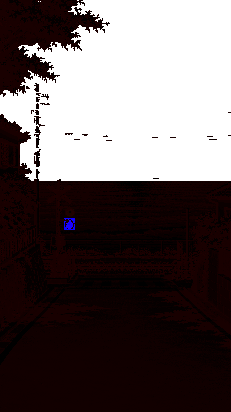
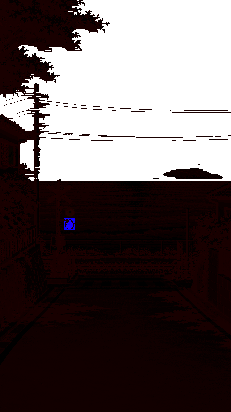
鎌倉高校前の全差分（時間帯・天気・季節）を追加（v0.5.0）
Codex の絵：空（朝・夕暮れ・夜・曇り・冬の富士山）と雪の日の景色。
コード：季節の色の差し替え（葉・あじさい）、夜の窓と灯台、雨の濡れた道、秋の落ち葉、季節ごとのカモメの数。
江の島と電線を景色の層に移し、空を差し替えても消えないようにした。
試し見とデバッグの到着で季節を選べるようにした。

diff --git a/app/js/scenes/kamakura.js b/app/js/scenes/kamakura.js
@@ -1,7 +1,9 @@
-// 鎌倉高校前の踏切（昼）：Codex で作った元の絵を tools/make_kamakura.py で層に分けたもの
-// 絵は昼の1枚だけ。朝・夕暮れ・夜と天気は、パレットの色づけだけで表す（形は変えない）
-// 動き：海のきらめき、ときどき鳴る踏切のランプ（上下が交互に光る）、ランプが鳴るあいだに通る電車、空を横切るカモメ
-// 電車とカモメの絵も Codex で作ったもの（tools/make_kamakura.py でカードの粗さと色にそろえた）。動かすのはコード
+// 鎌倉高校前の踏切：Codex で作った元の絵を tools/make_kamakura.py・make_kamakura_skies.py で層に分けたもの
+// 差分の分担（2026-11-25）
+//   Codex の絵：昼の景色、空（朝・夕暮れ・夜・曇り・冬の富士山）、雪の日の景色、電車、カモメ
+//   コード    ：時間帯・天気の色づけ、季節の色の差し替え（葉・あじさい）、夜の窓と灯台の明かり、
+//               海のきらめき、踏切のランプ、電車とカモメの動き、雨・雪・落ち葉の粒、濡れた道の光
+// 絵はコードで描き足さない（形が変わるものは Codex の絵を使う）
 import { loadTextures, palTex, setPal, makeLayer, makeChara, makeParticles } from '../card.js';
 const THREE = window.THREE;
 
@@ -9,46 +11,62 @@ const THREE = window.THREE;
 const TIME = {
   morning: { mul: [1.04, 1.0, .96], add: [10, 8, 4], desat: 0 },
   day: { mul: [1, 1, 1], add: [0, 0, 0], desat: 0 },
-  evening: { mul: [1.1, .8, .66], add: [18, 2, 8], desat: .1 },
+  evening: { mul: [1.05, .88, .8], add: [10, 2, 8], desat: .08 },
   night: { mul: [.3, .38, .62], add: [0, 2, 14], desat: .35 },
 };
 const WEATHER = {
   clear: { mul: [1, 1, 1], add: [0, 0, 0], desat: 0 },
   cloudy: { mul: [.9, .9, .93], add: [0, 0, 0], desat: .35 },
-  rain: { mul: [.78, .8, .88], add: [0, 0, 4], desat: .45 },
-  snow: { mul: [.96, .98, 1.02], add: [14, 16, 22], desat: .35 },
+  rain: { mul: [.76, .78, .86], add: [0, 0, 4], desat: .45 },
+  snow: { mul: [.94, .96, 1.0], add: [6, 8, 12], desat: .25 },
 };
+const tint = ([r, g, b], t) => { const l = r * .3 + g * .59 + b * .11; return [(r + (l - r) * t.desat) * t.mul[0] + t.add[0], (g + (l - g) * t.desat) * t.mul[1] + t.add[1], (b + (l - b) * t.desat) * t.mul[2] + t.add[2]]; };
+const both = (a, b) => ({ mul: a.mul.map((v, i) => v * b.mul[i]), add: a.add.map((v, i) => v + b.add[i]), desat: Math.min(1, a.desat + b.desat) });
+const mix = (c, d, k) => c.map((v, i) => v + (d[i] - v) * k);
+
+// 色の種類（32色のパレットから、葉・黄緑の葉・あじさいを見分ける）
+function kindOf([r, g, b]) {
+  const mx = Math.max(r, g, b) / 255, mn = Math.min(r, g, b) / 255, l = (mx + mn) / 2, d = mx - mn;
+  const s = d === 0 ? 0 : d / (1 - Math.abs(2 * l - 1)); let h = 0;
+  if (d) { const R = r / 255, G = g / 255, B = b / 255; h = mx === R ? ((G - B) / d) % 6 : mx === G ? (B - R) / d + 2 : (R - G) / d + 4; h = (h * 60 + 360) % 360; }
+  if (h >= 70 && h <= 170 && s > .25) return 'leaf';
+  if (h >= 45 && h < 70 && s > .3 && s < .65 && l < .55) return 'leafy';
+  if (h >= 270 && h <= 330 && s > .4) return 'flower';
+  return '';
+}
+// 季節の色の差し替え（夏が元の絵）
+function season(c, kind, s) {
+  if (!kind || s === 'summer') return c;
+  const l = (c[0] * .3 + c[1] * .59 + c[2] * .11) / 255;
+  if (s === 'spring') return kind === 'flower' ? mix(c, [112, 172, 84], .85) : mix(c, kind === 'leaf' ? [150, 206, 86] : [196, 206, 96], .3);
+  if (s === 'autumn') return kind === 'flower' ? mix(c, [140, 104, 78], .8) : kind === 'leafy' ? mix(c, [214, 158, 52], .65) : mix(c, l < .32 ? [122, 50, 36] : [224, 118, 44], .72);
+  if (s === 'winter') return kind === 'flower' ? mix(c, [98, 94, 76], .8) : kind === 'leafy' ? mix(c, [122, 120, 88], .5) : mix(c, [44, 80, 62], .45);
+  return c;
+}
 
 export async function build() {
   const base = 'assets/kamakura/';
   const D = await (await fetch(base + 'data.json')).json();
-  const tex = await loadTextures(base, ['sky', 'scene', 'front', 'chara', 'train', 'gulls']);
+  const skyNames = Object.values(D.skies || {});
+  const tex = await loadTextures(base, ['sky', 'scene', 'front', 'chara', 'train', 'gulls', ...skyNames, ...(D.snowScene ? ['scene_snow', 'front_snow'] : [])]);
   const W = D.W, H = D.H, k = W / 360;
   const scene = new THREE.Scene(); scene.userData = { W, H };
-
-  function grade(c, layer, st) {
-    const t = TIME[st.time] || TIME.day, w = WEATHER[st.weather] || WEATHER.clear;
-    let [r, g, b] = c;
-    if (layer === 'chara') { // キャラは背景ほど強く色を変えない
-      if (st.time === 'night') { r = r * .62 * .8; g = g * .62 * .9; b = b * .62 * 1.25 + 8; }
-      else if (st.time === 'evening') { r = r * 1.02 + 6; g *= .9; b *= .86; }
-      if (st.weather === 'rain' || st.weather === 'cloudy') { const l = r * .3 + g * .59 + b * .11; r = (r + (l - r) * .3) * .88; g = (g + (l - g) * .3) * .88; b = (b + (l - b) * .3) * .92; }
-      return [r, g, b];
-    }
-    const l = r * .3 + g * .59 + b * .11, ds = Math.min(1, t.desat + w.desat);
-    r = (r + (l - r) * ds) * t.mul[0] * w.mul[0] + t.add[0] + w.add[0];
-    g = (g + (l - g) * ds) * t.mul[1] * w.mul[1] + t.add[1] + w.add[1];
-    b = (b + (l - b) * ds) * t.mul[2] * w.mul[2] + t.add[2] + w.add[2];
-    return [r, g, b];
-  }
+  const kinds = { main: D.pal.main.map(kindOf), main_snow: (D.pal.main_snow || []).map(() => '') };
+  // 電車の窓（水色で明るい色）は、夕暮れ・夜に明かりをつける
+  const trainWin = D.pal.train.map(([r, g, b]) => b > r + 30 && r * .3 + g * .59 + b * .11 > 140);
 
   const sky = makeLayer(scene, 0, `void main(){ vec2 px=floor(vUv*uSize); px.y=uSize.y-1.-px.y; if(hidden(px)) discard; vec2 s=px-uOff; vec4 t=smp(s);
   gl_FragColor=vec4(pal(t.r),1.); }`);
+  // 印：1＝海のきらめき 2＝踏切のランプ 3＝家の窓 4＝江の島の灯台
+  // uNight：0＝昼 .5＝夕暮れ 1＝夜、uStretch：きらめきの強さ（晴れ1、曇り・雨・雪0）、uWet：濡れた道
   const SCENE_FRAG = `void main(){ vec2 px=floor(vUv*uSize); px.y=uSize.y-1.-px.y; if(hidden(px)) discard; vec2 s=px-uOff; vec4 t=smp(s); if(t.a<.5) discard;
   vec3 c=pal(t.r); float fl=floor(t.g*255.+.5), ph=hash(s);
-  if(fl>.5 && fl<1.5){ float q=mod(ph*14.+uF,14.); if(q<2.) c=mix(c,vec3(1.),uNight>.5?.3:.75); else if(q<4.) c*=.9; }
+  if(fl>.5 && fl<1.5 && uStretch>.5){ float q=mod(ph*14.+uF,14.); if(q<2.) c=mix(c,vec3(1.),uNight>.75?.3:.75); else if(q<4.) c*=.9; }
   if(fl>1.5 && fl<2.5){ float on=step(.5,uLamp), side=step(.5,t.b), blink=mod(floor(uF/6.),2.);
     if(on>.5 && abs(side-blink)<.5) c=mix(vec3(1.,.16,.08),vec3(1.,.82,.6),step(.62,lum(c))); else c*=.42; }
+  if(fl>2.5 && fl<3.5 && uNight>.25){ vec3 w=mix(vec3(1.,.74,.38),vec3(1.,.9,.62),step(.5,fract(ph*5.))); c=mix(c,w,uNight>.75?.92:.5); }
+  if(fl>3.5 && fl<4.5 && uNight>.25 && mod(uF,24.)<7.) c=vec3(1.,.95,.72);
+  if(uWet>.5 && s.y>${Math.round(H * .7)}. && lum(c)<.62 && mod(ph*26.+uF*.5,26.)<1.) c=mix(c,vec3(.78,.82,.92),.4);
   gl_FragColor=vec4(c,1.); }`;
   const scn = makeLayer(scene, 1, SCENE_FRAG);
   const front = makeLayer(scene, 3, SCENE_FRAG);   // 電車より手前にあるもの（壁・木・警報機の柱）
@@ -59,23 +77,54 @@ export async function build() {
   vec4 t=smp(s); if(t.a<.5) discard; gl_FragColor=vec4(pal(t.r),1.); }`, TW, TH);
   // カモメ：2コマを横に並べた絵。uOff.x がコマ番号、uWet が左右反転
   const [GW, GH] = D.sprites.gull;
-  const gulls = [0, 1, 2].map(i => makeLayer(scene, .5, `void main(){ vec2 px=floor(vUv*uSize); px.y=uSize.y-1.-px.y; vec2 s=px; if(uWet>.5) s.x=uSize.x-1.-s.x;
+  const gulls = [0, 1, 2].map(() => makeLayer(scene, .5, `void main(){ vec2 px=floor(vUv*uSize); px.y=uSize.y-1.-px.y; vec2 s=px; if(uWet>.5) s.x=uSize.x-1.-s.x;
   vec4 t=texture2D(tIdx,(vec2(s.x+uOff.x*uSize.x,s.y)+.5)/vec2(uSize.x*2.,uSize.y)*vec2(1.,-1.)+vec2(0.,1.)); if(t.a<.5) discard; gl_FragColor=vec4(pal(t.r),1.); }`, GW, GH));
   const ch = makeChara(scene, D.chara, 0x1a2a44, .35);
   const parts = makeParticles(scene, [Math.round(H * .72), H - 4]);
 
-  sky.material.uniforms.tIdx.value = tex.sky; scn.material.uniforms.tIdx.value = tex.scene; front.material.uniforms.tIdx.value = tex.front;
   train.material.uniforms.tIdx.value = tex.train; for (const g of gulls) g.material.uniforms.tIdx.value = tex.gulls; ch.chara.material.uniforms.tIdx.value = tex.chara;
+
+  // どの空を使うか：曇り・雨・雪は曇り空、晴れは時間帯の空（冬の昼は富士山の見える空）
+  function skyOf(st) {
+    if (['cloudy', 'rain', 'snow'].includes(st.weather)) return 'overcast';
+    if (st.time === 'day') return st.season === 'winter' ? 'winter' : 'day';
+    return st.time;
+  }
+
   const self = {
     scene, layers: [sky, scn], ch, drop: 0,   // 到着演出で順に組み上がる層。手前の層は景色の層に合わせる
     apply(st) {
-      setPal(sky, palTex(D.pal.main, c => grade(c, 'sky', st)));
-      setPal(scn, palTex(D.pal.main, c => grade(c, 'scene', st))); setPal(front, palTex(D.pal.main, c => grade(c, 'scene', st)));
-      setPal(train, palTex(D.pal.train, c => grade(c, 'scene', st)));
-      for (const g of gulls) setPal(g, palTex(D.pal.gull, c => grade(c, 'scene', st)));
-      self.gullsOn = st.time !== 'night' && !['rain', 'snow'].includes(st.weather);
-      setPal(ch.chara, palTex(D.pal.chara, c => grade(c, 'chara', st)));
-      scn.material.uniforms.uNight.value = front.material.uniforms.uNight.value = st.time === 'night' ? 1 : 0;
+      const t = TIME[st.time] || TIME.day, w = WEATHER[st.weather] || WEATHER.clear, tw = both(t, w);
+      // 空
+      const sn = skyOf(st), sname = D.skies?.[sn];
+      sky.material.uniforms.tIdx.value = sname ? tex[sname] : tex.sky;
+      const own = sname && sn !== 'overcast';   // 時間帯の色がもう入っている空は、天気の色だけ
+      setPal(sky, palTex(sname ? D.pal[sname] : D.pal.main, c => tint(c, own ? w : tw)));
+      // 景色：雪の日は雪の絵。それ以外は季節の色を差し替えてから、時間帯・天気の色づけ
+      const snow = st.weather === 'snow' && D.snowScene;
+      const pkey = snow ? 'main_snow' : 'main';
+      scn.material.uniforms.tIdx.value = snow ? tex.scene_snow : tex.scene;
+      front.material.uniforms.tIdx.value = snow ? tex.front_snow : tex.front;
+      const sp = palTex(D.pal[pkey], (c, i) => tint(snow ? c : season(c, kinds[pkey][D.pal[pkey].indexOf(c)], st.season), snow ? both(t, WEATHER.cloudy) : tw));
+      setPal(scn, sp); setPal(front, palTex(D.pal[pkey], (c) => tint(snow ? c : season(c, kinds[pkey][D.pal[pkey].indexOf(c)], st.season), snow ? both(t, WEATHER.cloudy) : tw)));
+      const night = st.time === 'night' ? 1 : st.time === 'evening' ? .5 : 0;
+      for (const m of [scn, front]) {
+        m.material.uniforms.uNight.value = night;
+        m.material.uniforms.uStretch.value = st.weather === 'clear' ? 1 : 0;
+        m.material.uniforms.uWet.value = st.weather === 'rain' ? 1 : 0;
+      }
+      setPal(train, palTex(D.pal.train, (c, ) => { const i = D.pal.train.indexOf(c); return night && trainWin[i] ? mix(c, [255, 222, 150], night > .75 ? .85 : .45) : tint(c, tw); }));
+      for (const g of gulls) setPal(g, palTex(D.pal.gull, c => tint(c, tw)));
+      // カモメ：夏は3羽、春・秋は2羽、冬と曇りは1羽。夜・雨・雪は出ない
+      self.gullN = st.time === 'night' || ['rain', 'snow'].includes(st.weather) ? 0 : st.weather === 'cloudy' || st.season === 'winter' ? 1 : st.season === 'summer' ? 3 : 2;
+      self.leaves = st.season === 'autumn' && st.weather !== 'snow';
+      setPal(ch.chara, palTex(D.pal.chara, c => {
+        let [r, g, b] = c;  // キャラは背景ほど強く色を変えない
+        if (st.time === 'night') { r = r * .62 * .8; g = g * .62 * .9; b = b * .62 * 1.25 + 8; }
+        else if (st.time === 'evening') { r = r * 1.02 + 6; g *= .9; b *= .86; }
+        if (st.weather === 'rain' || st.weather === 'cloudy') { const l = r * .3 + g * .59 + b * .11; r = (r + (l - r) * .3) * .88; g = (g + (l - g) * .3) * .88; b = (b + (l - b) * .3) * .92; }
+        return [r, g, b];
+      }));
     },
     frame(par, f, newF, rm, st) {
       const off = v => Math.round(-par * v * k);
@@ -87,10 +136,10 @@ export async function build() {
         const p = ph / run, x = dir > 0 ? -TW / 2 + p * (W + TW) : W + TW / 2 - p * (W + TW);
         train.visible = true; train.position.set(Math.round(x) - off(9), H - (D.RAIL - TH / 2), 2); train.material.uniforms.uWet.value = dir > 0 ? 0 : 1;
       } else train.visible = false;
-      // カモメ：3羽がそれぞれの周期で空を横切る。羽ばたきは2コマ、ときどき羽を止めて滑空
+      // カモメ：それぞれの周期で空を横切る。羽ばたきは2コマ、ときどき羽を止めて滑空
       gulls.forEach((g, i) => {
         const per = [420, 560, 700][i], len = [300, 360, 420][i], q = (f + i * 170) % per;
-        if (rm || !self.gullsOn || q >= len) { g.visible = false; return; }
+        if (rm || i >= self.gullN || q >= len) { g.visible = false; return; }
         const p = q / len, right = i !== 1, x = right ? -GW + p * (W + GW * 2) : W + GW - p * (W + GW * 2);
         const y = [62, 96, 40][i] + Math.round(Math.sin(f / 9 + i) * 3);
         g.visible = true; g.position.set(Math.round(x) - off(3), H - y, .5);
@@ -104,7 +153,7 @@ export async function build() {
         scn.material.uniforms.uF.value = front.material.uniforms.uF.value = rm ? 0 : f;
         // 踏切は20秒に1回、5秒だけ鳴る（動きを減らす設定では鳴らさない）
         scn.material.uniforms.uLamp.value = front.material.uniforms.uLamp.value = !rm && f % 240 < 60 ? 1 : 0;
-        parts.draw(f, st.weather);
+        parts.draw(f, st.weather, { leaves: self.leaves && !rm });
       }
     },
   };

diff --git a/app/js/debug.js b/app/js/debug.js
@@ -1,5 +1,5 @@
 // デバッグモード（くりた専用）。設定画面のバージョン表記を7回つづけてタップすると出る
-import { PLACES, LABEL, TIMES, WEATHERS } from './places.js';
+import { PLACES, LABEL, TIMES, WEATHERS, seasonOf } from './places.js';
 import { settings, saveSettings, book, cardsOf, dbg, mode } from './store.js';
 import { conditionsAt } from './conditions.js';
 import { current } from './geo.js';
@@ -7,7 +7,8 @@ import { esc, toast } from './ui.js';
 import { playArrival } from './arrival.js';
 
 const pick = (k, opts) => `<div class="row" data-k="${k}">${opts.map(([v, l]) => `<button data-v="${v}" aria-pressed="${settings[k] === v}">${esc(l)}</button>`).join('')}</div>`;
-let pv = { place: PLACES[0].id, time: 'evening', weather: 'clear' };
+let pv = { place: PLACES[0].id, time: 'evening', weather: 'clear', season: seasonOf() };
+const SEASONS = ['spring', 'summer', 'autumn', 'winter'];
 
 export function renderDebug(box, refresh) {
   const on = mode() === 'debug', b = book('debug');
@@ -20,6 +21,7 @@ export function renderDebug(box, refresh) {
     <span class="lab">いる場所（位置の上書き）</span>
     <select class="sel" data-sel="loc"><option value="none">上書きしない</option>${PLACES.map(p => `<option value="${p.id}" ${settings.loc === p.id ? 'selected' : ''}>${esc(p.name)}</option>`).join('')}<option value="nowhere" ${settings.loc === 'nowhere' ? 'selected' : ''}>どこでもない</option></select>
     <span class="lab">到着したときの時間帯（自動＝時刻と日の出・日の入りから）</span>${pick('time', [['auto', '自動'], ...TIMES.map(t => [t, LABEL.time[t]])])}
+    <span class="lab">到着したときの季節（自動＝今日の日付から）</span>${pick('season', [['auto', '自動'], ...SEASONS.map(s => [s, LABEL.season[s]])])}
     <span class="lab">到着したときの天気（自動＝Open-Meteo から）</span>${pick('weather', [['auto', '自動'], ...WEATHERS.map(w => [w, LABEL.weather[w]]), ['unknown', '不明']])}
     <span class="lab">到着演出の再生（記録はしない）</span>
     <div class="line"><select class="sel" data-play-place>${PLACES.map(p => `<option value="${p.id}">${esc(p.name)}</option>`).join('')}</select><button data-play="1">初めて</button><button data-play="0">再訪</button></div>
@@ -27,6 +29,7 @@ export function renderDebug(box, refresh) {
     <div class="line"><select class="sel" data-pv="place">${PLACES.map(p => `<option value="${p.id}" ${pv.place === p.id ? 'selected' : ''}>${esc(p.name)}</option>`).join('')}</select>
       <select class="sel" data-pv="time">${pp.times.map(t => `<option value="${t}" ${pv.time === t ? 'selected' : ''}>${LABEL.time[t]}</option>`).join('')}</select>
       <select class="sel" data-pv="weather">${WEATHERS.map(w => `<option value="${w}" ${pv.weather === w ? 'selected' : ''}>${LABEL.weather[w]}</option>`).join('')}</select>
+      <select class="sel" data-pv="season">${SEASONS.map(s => `<option value="${s}" ${pv.season === s ? 'selected' : ''}>${LABEL.season[s]}</option>`).join('')}</select>
       <button data-a="preview">見る</button></div>
     <span class="lab">スタイル研究（見本の加工を変えて4つ並べて比べる）</span>
     <div class="line"><a class="btn" href="lab/style/">スタイルの比べる場をひらく</a></div>
@@ -50,7 +53,7 @@ export function renderDebug(box, refresh) {
     if (d.a === 'toggle') { settings.debugOn = !on; saveSettings(); toast(settings.debugOn ? 'デバッグ用の記録に切り替えました' : '本番の記録に戻しました'); return refresh(); }
     if (d.a === 'hide') { settings.debugUnlocked = false; settings.debugOn = false; saveSettings(); toast('デバッグを隠しました'); return refresh(); }
     if (d.a === 'reset') { if (confirm('デバッグ用の記録（カード・アイテム・ポイント）を全部消します。本番の記録は消えません。よろしいですか？')) { dbg.reset(); toast('デバッグの記録を消しました'); refresh(); } return; }
-    if (d.a === 'preview') { location.hash = `#/preview/${pv.place}/${pv.time}/${pv.weather}`; return; }
+    if (d.a === 'preview') { location.hash = `#/preview/${pv.place}/${pv.time}/${pv.weather}/${pv.season}`; return; }
     if (d.play) {
       const p = P(box.querySelector('[data-play-place]').value), first = d.play === '1', n = cardsOf(p.id, 'debug').length;
       btn.disabled = true; const v = await conditionsAt(p, current()); btn.disabled = false;

diff --git a/app/js/card.js b/app/js/card.js
@@ -1,5 +1,6 @@
 // カード描画の共通部分（canva_layers / chukagai_canva の page.html から移したもの）
 // 絵は Canva の見本を写し取った層だけを使う。ここでは背景を描き足さない。
+import { seasonOf } from './places.js';
 const THREE = window.THREE;
 export const W = 360, H = 640;   // 写真の名所の大きさ。ドット絵の名所は data.json の W・H（scene.userData に入れる）
 const dims = scene => [scene.userData.W || W, scene.userData.H || H];
@@ -56,20 +57,27 @@ export function makeParticles(scene, splash) {
   const pc = document.createElement('canvas'); pc.width = W; pc.height = H; const pctx = pc.getContext('2d'), pTex = near(new THREE.CanvasTexture(pc));
   const mesh = new THREE.Mesh(new THREE.PlaneGeometry(W, H), new THREE.MeshBasicMaterial({ map: pTex, transparent: true, depthTest: false })); mesh.position.set(W / 2, H / 2, 5); mesh.renderOrder = 5; scene.add(mesh);
   let seed = 9; const rnd = () => (seed = (seed * 16807) % 2147483647) / 2147483647; const P = Array.from({ length: 320 }, (_, i) => [rnd() * W, rnd() * H, rnd(), i]);
-  function draw(f, w) {
+  function draw(f, w, o = {}) {
     pctx.clearRect(0, 0, W, H);
     if (w === 'snow') for (const [x0, y0, q, i] of P) { const big = i < 30, mid = i < 140, sp = big ? 2.2 : mid ? 1.3 : .7, y = Math.floor((y0 + f * sp) % H), x = Math.floor(((x0 + Math.sin(f / 14 + q * 20) * (big ? 6 : 3) + f * .2) % W + W) % W);
       pctx.fillStyle = mid ? '#fff' : 'rgba(215,225,248,.8)'; pctx.fillRect(x, y, big ? 2 : 1, big ? 2 : 1); if (big) { pctx.fillStyle = 'rgba(228,236,252,.8)'; pctx.fillRect(x - 1, y, 1, 1); pctx.fillRect(x + 2, y + 1, 1, 1); } }
     else if (w === 'rain') { for (const [x0, y0, q, i] of P) { if (i > 220) break; const nearD = i < 70, len = nearD ? 13 : 7, y = Math.floor((y0 + f * (nearD ? 26 : 18)) % (H + 30)) - 15, x = Math.floor(((x0 - f * (nearD ? 6 : 4)) % W + W) % W);
         pctx.fillStyle = nearD ? 'rgba(206,218,246,.72)' : 'rgba(206,218,246,.4)'; for (let k = 0; k < len; k++) pctx.fillRect(x + Math.floor(k / 3.5), y - k, 1, 1); }
       for (let i = 0; i < 34; i++) { const ph = (f + i * 5) % 14, x = Math.floor(P[240 + i][0]), y = splash[0] + Math.floor(P[240 + i][1] / H * (splash[1] - splash[0])); if (ph < 3) { pctx.fillStyle = 'rgba(224,232,250,.75)'; pctx.fillRect(x, y - 1 - ph, 1, 1); pctx.fillRect(x - 1 - ph, y, 1, 1); pctx.fillRect(x + 1 + ph, y, 1, 1); } } }
+    // 落ち葉（秋の名所）：木のある左上から、ゆれながら右下へ落ちる小さな葉
+    if (o.leaves) for (let i = 0; i < 18; i++) {
+      const [x0, y0, q] = P[i + 100], sp = .5 + q * .6, y = Math.floor((y0 * .9 + f * sp) % (H + 20)) - 10, x = Math.floor(((x0 * .55 + f * .25 * sp + Math.sin(f / 10 + q * 30) * 5) % W + W) % W);
+      pctx.fillStyle = ['#E07A2E', '#C9452B', '#E8B23A'][i % 3]; const flip = ((f >> 2) + i) & 1;
+      pctx.fillRect(x, y, flip ? 2 : 1, flip ? 1 : 2); if (i % 2) pctx.fillRect(x + 1, y + 1, 1, 1);
+    }
     pTex.needsUpdate = true;
   }
   return { mesh, draw };
 }
 
 // 描くときの状態：天気「不明」は晴れで描く
-const drawState = st => ({ ...st, weather: ['rain', 'snow', 'cloudy'].includes(st.weather) ? st.weather : 'clear' });
+// 季節がないとき（まだ行っていない名所の小さな絵など）は、その日の季節で描く
+const drawState = st => ({ ...st, weather: ['rain', 'snow', 'cloudy'].includes(st.weather) ? st.weather : 'clear', season: st.season || seasonOf(st.at ? new Date(st.at) : new Date()) });
 
 // ---- 描画エンジン（WebGL は1つだけ使い、表示する場所へキャンバスを移す） ----
 class Engine {
@@ -125,7 +133,7 @@ class Engine {
 export const engine = new Engine();
 const snaps = new Map();
 export function snapshot(id, state) {
-  const k = `${id}|${state.time}|${state.weather}`;
+  const k = `${id}|${state.time}|${state.weather}|${state.season || ''}`;
   if (!snaps.has(k)) snaps.set(k, engine.snapshot(id, state));
   return snaps.get(k);
 }

diff --git a/app/sw.js b/app/sw.js
@@ -1,12 +1,13 @@
 // オフライン対応：アプリ本体と絵を端末に保存して、電波がなくても開けるようにする
 // 版を上げるときは VERSION を変える（古い保存は消える）
-const VERSION = 'tabiquest-v0.4.2';
+const VERSION = 'tabiquest-v0.5.0';
 const CORE = [
   './', 'index.html', 'manifest.json', 'css/app.css', 'vendor/three.r128.min.js',
   'js/main.js', 'js/card.js', 'js/places.js', 'js/photo_places.js', 'js/store.js', 'js/geo.js', 'js/conditions.js', 'js/ui.js', 'js/arrival.js', 'js/zukan.js', 'js/debug.js',
   'js/map.js', 'js/goals.js', 'assets/map/map_jp.png', 'assets/map/map_jp.json',
   'js/scenes/minatomirai.js', 'js/scenes/chukagai.js', 'js/scenes/kamakura.js', 'js/scenes/photo.js',
-  'assets/kamakura/data.json', 'assets/kamakura/sky.png', 'assets/kamakura/scene.png', 'assets/kamakura/chara.png', 'assets/kamakura/front.png', 'assets/kamakura/train.png', 'assets/kamakura/gulls.png',
+  'assets/kamakura/data.json', 'assets/kamakura/sky.png', 'assets/kamakura/scene.png', 'assets/kamakura/chara.png', 'assets/kamakura/front.png', 'assets/kamakura/train.png', 'assets/kamakura/gulls.png', 'assets/kamakura/scene_snow.png', 'assets/kamakura/front_snow.png',
+  'assets/kamakura/sky_morning.png', 'assets/kamakura/sky_evening.png', 'assets/kamakura/sky_night.png', 'assets/kamakura/sky_overcast.png', 'assets/kamakura/sky_winter.png',
   'icons/icon-192.png', 'icons/icon-512.png', 'icons/icon-180.png',
   'assets/minatomirai/data.json', 'assets/minatomirai/sky_evening.png', 'assets/minatomirai/sky_night.png', 'assets/minatomirai/city_evening.png', 'assets/minatomirai/city_night.png', 'assets/minatomirai/fg.png', 'assets/minatomirai/chara.png',
   'assets/chukagai/data.json', 'assets/chukagai/sky_evening.png', 'assets/chukagai/sky_night.png', 'assets/chukagai/scene_night.png', 'assets/chukagai/chara.png',

diff --git a/app/js/main.js b/app/js/main.js
@@ -15,7 +15,7 @@ import * as chukagai from './scenes/chukagai.js';
 import * as kamakura from './scenes/kamakura.js';
 import * as photo from './scenes/photo.js';
 
-export const VERSION = '0.4.2';
+export const VERSION = '0.5.0';
 engine.register('minatomirai', minatomirai.build);
 engine.register('chukagai', chukagai.build);
 engine.register('kamakura', kamakura.build);
@@ -49,7 +49,7 @@ function route() {
     closeViewer = openViewer({ cardId: args[0], onClose: () => { closeViewer = null; history.length > 1 ? history.back() : (location.hash = '#/zukan'); } });
   } else if (name === 'preview') {
     renderZukan(view);
-    closeViewer = openViewer({ preview: { placeId: args[0], time: args[1], weather: args[2] }, onClose: () => { closeViewer = null; location.hash = '#/settings'; } });
+    closeViewer = openViewer({ preview: { placeId: args[0], time: args[1], weather: args[2], season: args[3] }, onClose: () => { closeViewer = null; location.hash = '#/settings'; } });
   } else renderZukan(view);
   if (!['card', 'preview'].includes(name)) window.scrollTo(0, 0);
 }

diff --git a/app/js/store.js b/app/js/store.js
@@ -23,7 +23,7 @@ export function migrate(b) {
   return out;
 }
 
-export const settings = Object.assign({ debugUnlocked: false, debugOn: false, loc: 'none', time: 'auto', weather: 'auto' }, read(KEY.settings) || {});
+export const settings = Object.assign({ debugUnlocked: false, debugOn: false, loc: 'none', time: 'auto', weather: 'auto', season: 'auto' }, read(KEY.settings) || {});
 export const saveSettings = () => write(KEY.settings, settings);
 
 const books = { real: migrate(read(KEY.real)), debug: migrate(read(KEY.debug)) };

diff --git a/app/js/conditions.js b/app/js/conditions.js
@@ -53,7 +53,7 @@ export async function conditionsAt(place, pos) {
   return {
     time: renderTime(place, timeReal), timeReal, weather,
     weatherSrc: wantWeather ? 'debug' : w ? `open-meteo:${w.code}` : 'none',
-    season: seasonOf(now), lat: pos?.lat ?? null, lng: pos?.lng ?? null,
+    season: dbg && settings.season && settings.season !== 'auto' ? settings.season : seasonOf(now), lat: pos?.lat ?? null, lng: pos?.lng ?? null,
   };
 }
 

diff --git a/app/README.md b/app/README.md
@@ -1,4 +1,4 @@
-# タビクエ Webアプリ（v0.4.2）
+# タビクエ Webアプリ（v0.5.0）
 
 ## PCで動かす
 `M:\Claude\旅アプリ` で次を実行し、ブラウザで http://localhost:5180 を開く。
@@ -30,7 +30,7 @@ main に送ると GitHub Actions が `app/` を GitHub Pages に公開する（h
 - `assets/` Canva から写し取った層の絵とパレット、仮の写真
 
 ## 名所を増やすとき
-鎌倉高校前の踏切は `tools/make_kamakura.py`（Codex で作った元の絵 → ドットを見つけて 231×412 マス → 32色（26色＋差し色6）→ 空・景色・手前の層）。電車とカモメの絵も Codex で作り、同じスクリプトで切り抜いてそろえる。
+鎌倉高校前の踏切は `tools/make_kamakura.py`（Codex で作った元の絵 → ドットを見つけて 231×412 マス → 32色（26色＋差し色6）→ 空・景色・手前の層）。電車とカモメの絵も Codex で作り、同じスクリプトで切り抜いてそろえる。空の差分（朝・夕暮れ・夜・曇り・冬の富士山）と雪の日の景色は `tools/make_kamakura_skies.py`。季節の色（葉・あじさい）、夜の明かり、雨・雪・落ち葉はコード（`js/scenes/kamakura.js`）。
 みなとみらい・中華街の層は `tools/relayer.py`（公開しないフォルダ）で作る。Canva の元の絵から Pixel Refiner でドットの並びを見つけて縮め、キャラの外側にふちをつける。
 - ドット絵：`assets/<id>/` に層のPNGと data.json（W・H を入れる。いまは 285×507）を置き、`js/scenes/<id>.js` を作り、`places.js` に足して `main.js` で `engine.register` する
 - 仮の写真：`photo_places.js` に1件足し、写真（360×640）を `assets/photos/` に置く。写真は使ってよいライセンスのものだけにし、作者・ライセンス・元のページを書く
